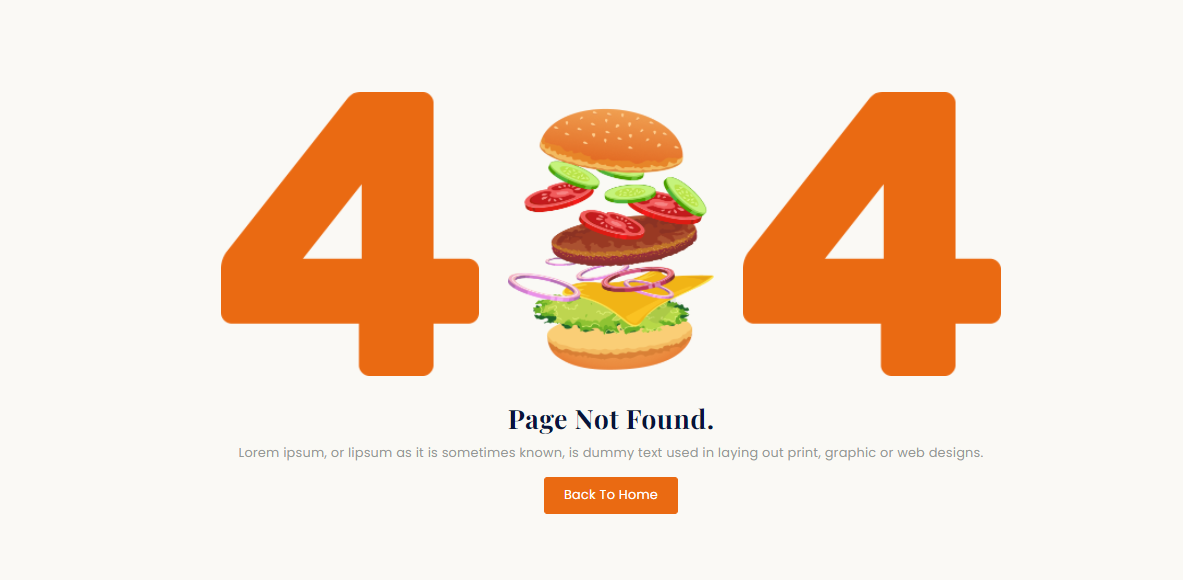
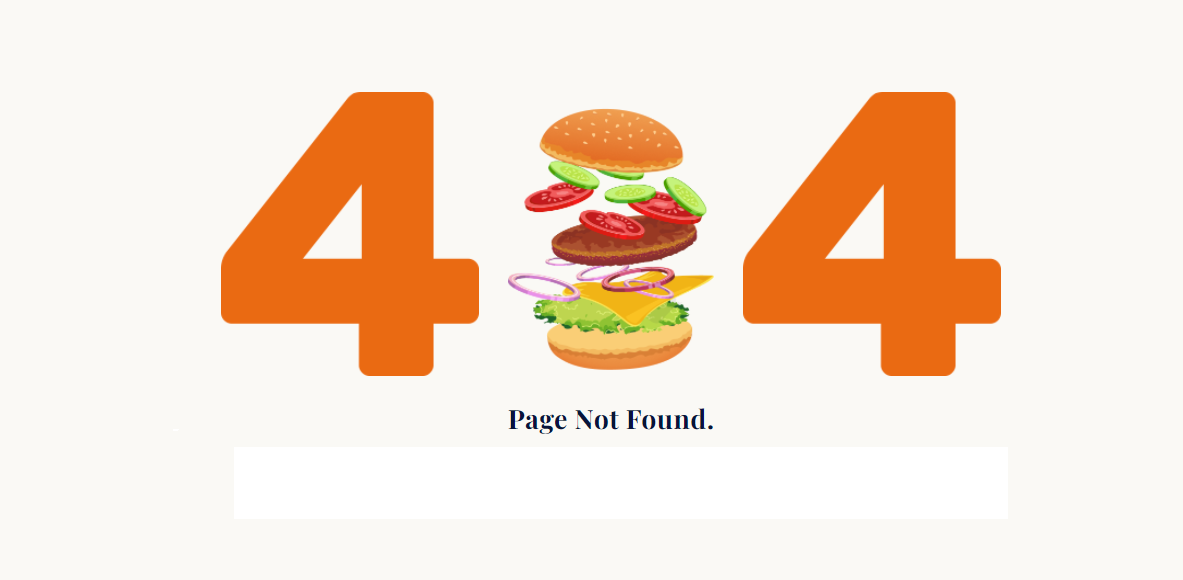
error page create

Changed region(s): [[0.213, 0.7759, 0.8216, 0.9]]

diff --git a/src/components/SharedComponents/Error/Error.jsx b/src/components/SharedComponents/Error/Error.jsx
@@ -1,23 +1,20 @@
+import { Link } from "react-router-dom";
+import imgError from '../../../assets/image/Capture3-3.png';
+
 const Error = () => {
   return (
     <>
       <div className="h-screen flex justify-center items-center">
-        <div className="grid h-screen px-4 bg-white place-content-center">
+        <div className="grid h-screen bg-white place-content-center">
           <div className="text-center">
-            <h1 className="font-black text-gray-200 text-9xl">404</h1>
-
-            <p className="text-2xl font-bold tracking-tight text-gray-900 sm:text-4xl">
-              Uh-oh!
-            </p>
-
-            <p className="mt-4 text-gray-500">We can't find that page.</p>
-
+            <img src={imgError} alt="" />
             <Link
               to="/"
-              className="inline-block px-5 py-3 mt-6 text-sm font-medium text-white bg-indigo-600 rounded hover:bg-indigo-700 focus:outline-none focus:ring"
+              className="inline-block px-10 py-6 mt-6 text-sm font-medium top-10 text-white bg-red-600 rounded hover:bg-orange-700 focus:outline"
             >
               Go Back Home
             </Link>
+            <span className="py-10"></span>
           </div>
         </div>
       </div>

diff --git a/src/Pages/Home/Products/Products.jsx b/src/Pages/Home/Products/Products.jsx
@@ -3,7 +3,7 @@ const Products = () => {
         <div className="mt-7">
             <div className="text-center">
                 <p className="text-2xl text-orange-400 font-bold">Service</p>
-                <p className="text-5xl font-bold">Our Service Area</p>
+                <p className="text-4xl font-bold">TOP SIX ORDERED FOOD</p>
                 <p className="text-muted">the majority have suffered alteration in some form, by injected humour, or randomised <br /> words which do not look even slightly believable. </p>
             </div>
         </div>
